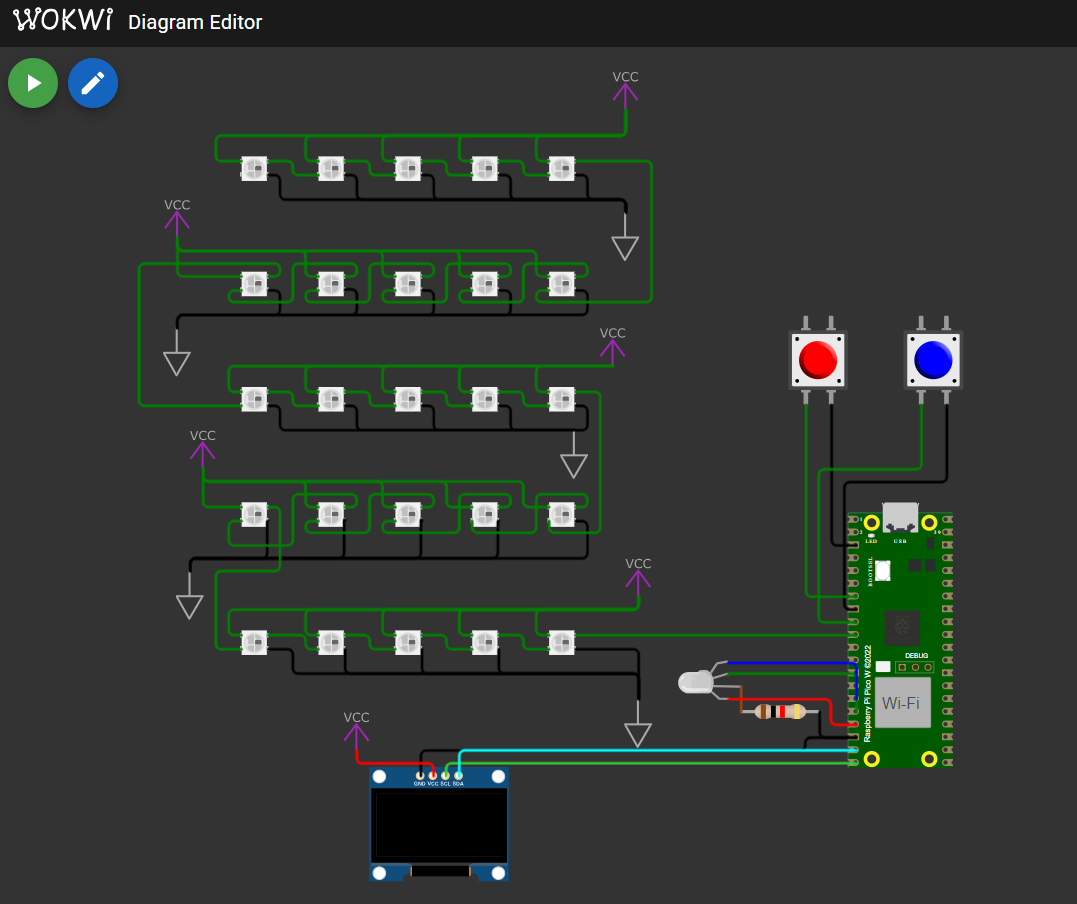
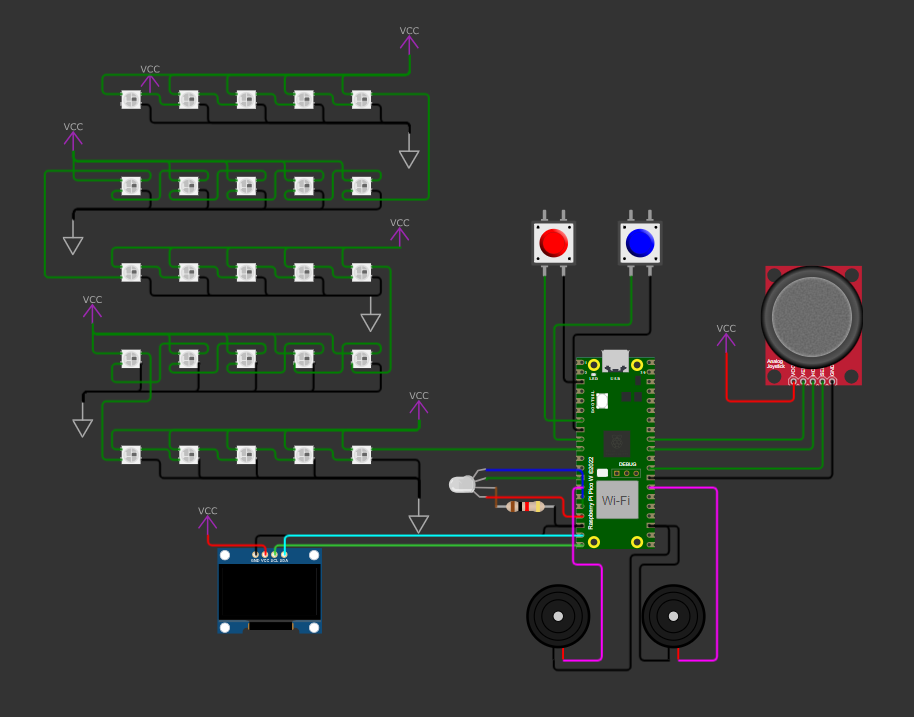
update readme wokwi model

Changed region(s): [[0.0, 0.0, 1.0, 0.9819], [0.0613, 0.3068, 0.0919, 0.3375]]

diff --git a/README.md b/README.md
@@ -20,13 +20,12 @@ Simular um sistema de prisão utilizando a placa de testes BitDogLab para trabal
 # Funcionalidades
 
 1) Através do menu disponibilizado no display é possivel selecionar o submenu de Portas ou Luzes
-    1.1) No submenu de Portas pode fazer o controle de portas abrindo ou fechando-as.
-         Seria equivalente ao leds correspondentes a portas saindo do vermelho/verde.
-    1.2) No submenu de Luzes pode fazer o controle de luzes dos prisioneiros.
-         Seria equivalente ao leds correspondentes das luzes ligando e desligando.
-2) Ao clicar o botão B e possivel voltar so submenu para o menu principal.
-3) Ao clicar o botão A, um sinal e emitido, e todas as portas se abrem.
-4) Um sinal do buzzer é emitido a cada chamada de funcionalidade e uso do menu do sistema.s
+
+2) No submenu de Portas pode fazer o controle de portas abrindo ou fechando-as. Seria equivalente ao leds correspondentes a portas saindo do vermelho/verde.
+2) No submenu de Luzes pode fazer o controle de luzes dos prisioneiros. Seria equivalente ao leds correspondentes das luzes ligando e desligando.
+3) Ao clicar o botão B e possivel voltar so submenu para o menu principal.
+4) Ao clicar o botão A, um sinal e emitido, e todas as portas se abrem.
+5) Um sinal do buzzer é emitido a cada chamada de funcionalidade e uso do menu do sistema.s
 
 
 # Diagrama de pastas
@@ -51,3 +50,7 @@ SRC
     ├── matrizLed.h  
     └── ledStruct.h (salva o struct utilizado para o RGB) 
 ``` 
+
+# Modelo wokwi
+
+![wokwi_model](Images/wokwi_model.png)
